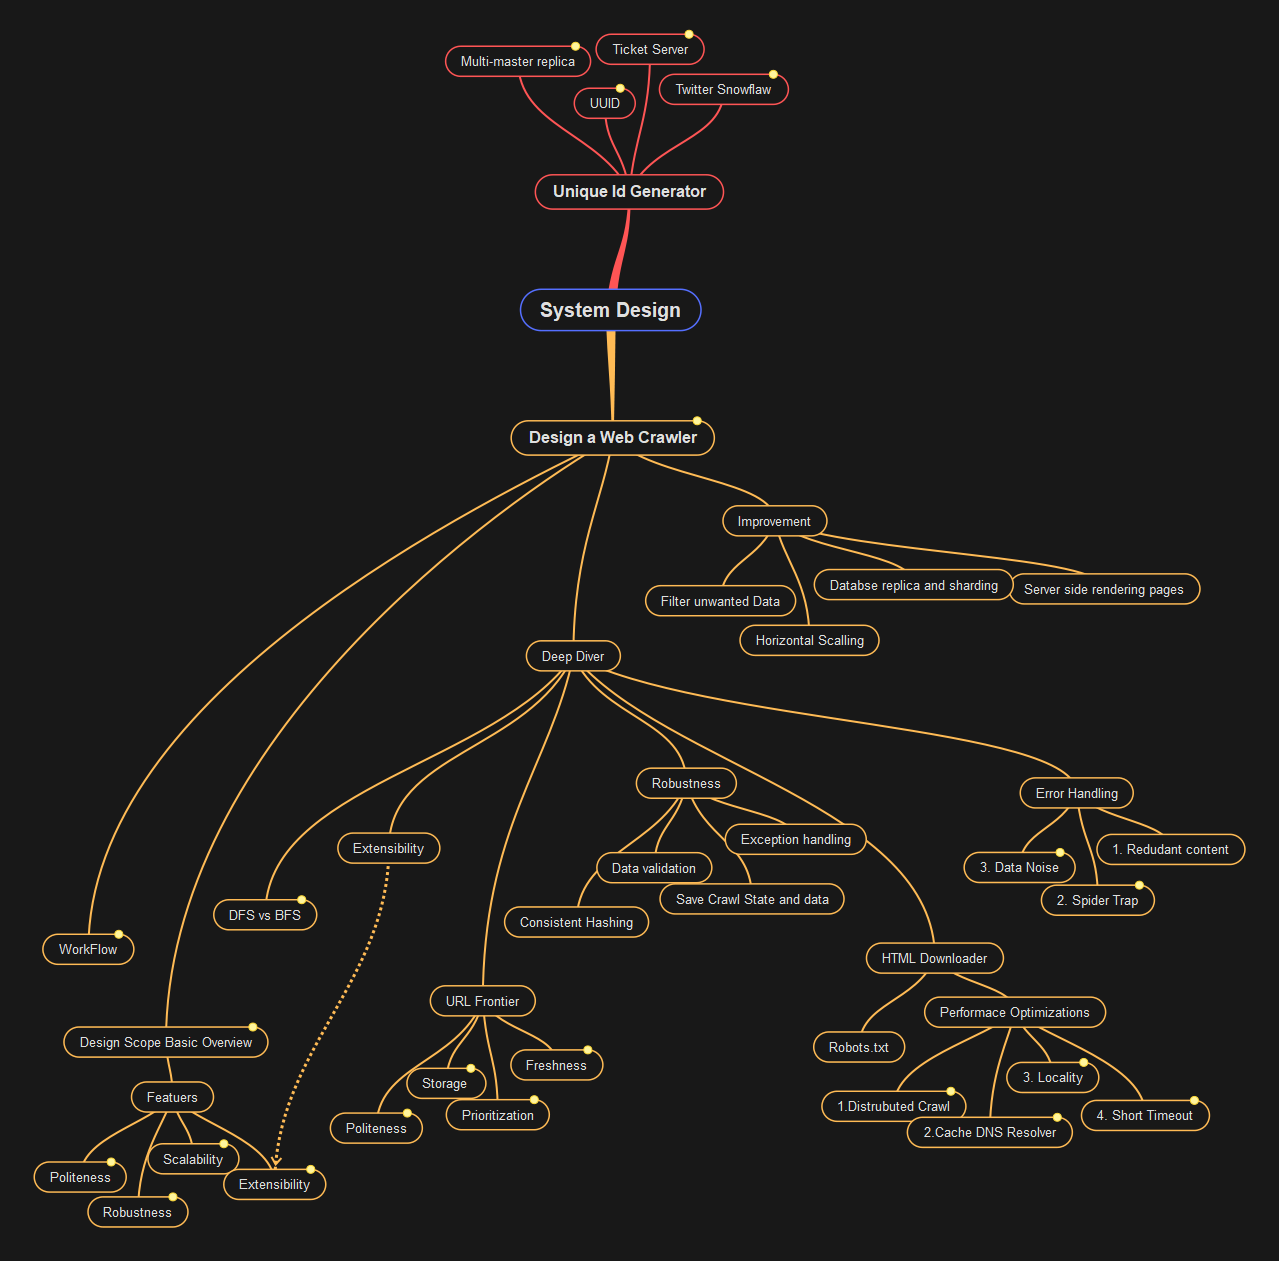
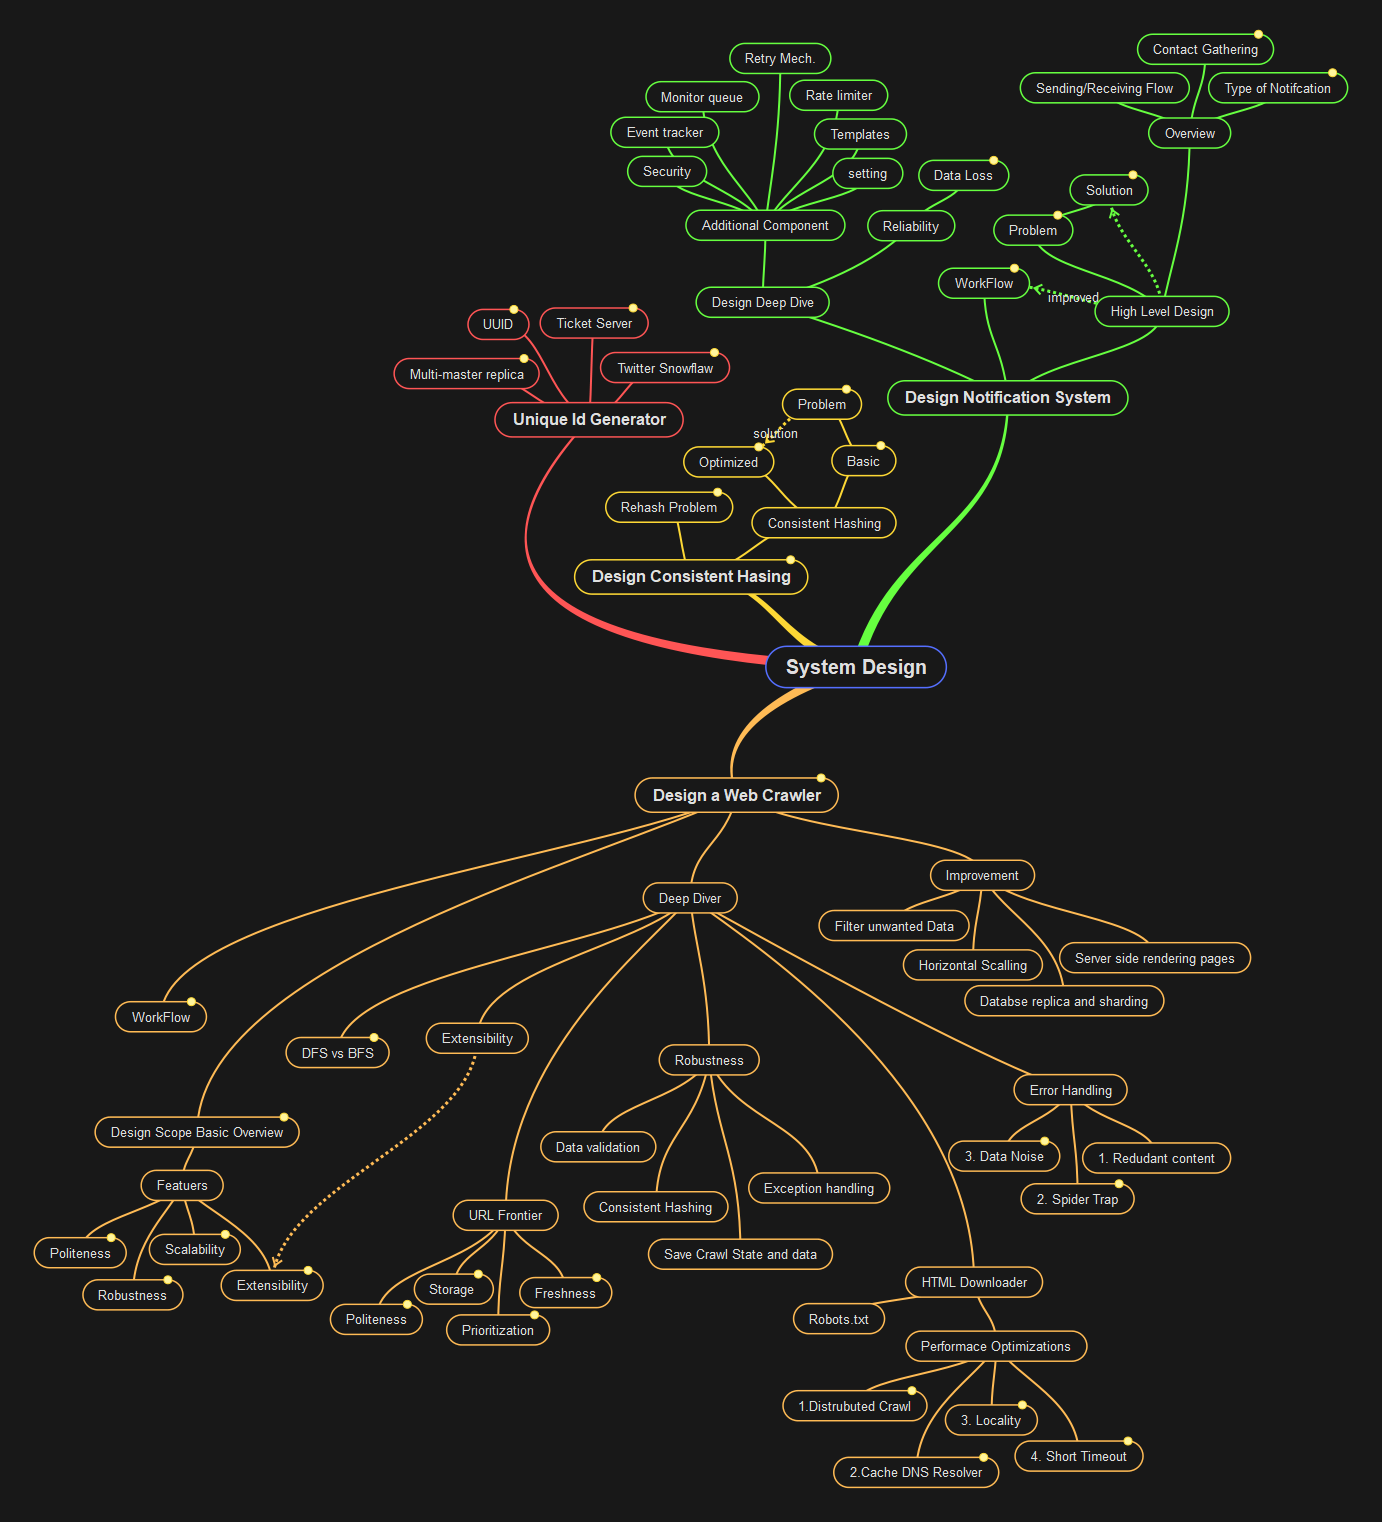
Update system design

Changed region(s): [[0.0305, 0.0, 0.9758, 0.9897], [0.2744, 0.7423, 0.3049, 0.7732], [0.183, 0.5876, 0.2134, 0.6186]]

diff --git a/Frontend/src/constant/system_design.js b/Frontend/src/constant/system_design.js
@@ -59,9 +59,53 @@ export const notesData = {
     "title": "\nNote - 3. Data Noise\n",
     "body": "\n\n<title>\nNote - 3. Data Noise\n</title>\n<link rel=\"shortcut icon\" type=\"image/png\" href=\"../favicon.png\">\n\n\n<h2>\n3. Data Noise\n</h2>\n<hr>\n<p>\nData Noise\n<br>\n\n<br>\nSome content and Url is not usefull\n<br>\nsuch as ADS, code snippet , spam url etc\n</p>\n\n\n"
   },
+  "note_23": {
+    "title": "\nNote - Design Consistent Hasing\n",
+    "body": "\n\n<title>\nNote - Design Consistent Hasing\n</title>\n<link rel=\"shortcut icon\" type=\"image/png\" href=\"../favicon.png\">\n\n\n<h2>\nDesign Consistent Hasing\n</h2>\n<hr>\n<p>\nConsistent hashing\n<br>\n\n<br>\nIn horizontal scaling there are number of servers how will you define on which server the user request will go.\n</p>\n\n\n"
+  },
+  "note_24": {
+    "title": "\nNote - Rehash Problem\n",
+    "body": "\n\n<title>\nNote - Rehash Problem\n</title>\n<link rel=\"shortcut icon\" type=\"image/png\" href=\"../favicon.png\">\n\n\n<h2>\nRehash Problem\n</h2>\n<hr>\n<p>\nRehash Problem\n<br>\n\n<br>\n create a function which id%n = server number.\n<br>\n\n<br>\ngood for fixed number of server\n<br>\n\n<br>\nThe problem arise\n<br>\n1. Adding and removing server the function change server for the user request\n</p>\n\n\n"
+  },
+  "note_25": {
+    "title": "\nNote - Basic\n",
+    "body": "\n\n<title>\nNote - Basic\n</title>\n<link rel=\"shortcut icon\" type=\"image/png\" href=\"../favicon.png\">\n\n\n<h2>\nBasic\n</h2>\n<hr>\n<p>\nBasic Consistent Hashing\n<br>\n\n<br>\n10 thousand feet view\n<br>\nCreate a array and join it's end make it like cycle\n<br>\n\n<br>\nNow create function that give position to put server on array\n<br>\n\n<br>\nand other function for user to map on server\n<br>\n\n<br>\nnow every user request goes to the clockwise first server it found\n</p>\n\n\n"
+  },
+  "note_26": {
+    "title": "\nNote - Problem\n",
+    "body": "\n\n<title>\nNote - Problem\n</title>\n<link rel=\"shortcut icon\" type=\"image/png\" href=\"../favicon.png\">\n\n\n<h2>\nProblem\n</h2>\n<hr>\n<p>\nProblem\n<br>\n\n<br>\n1. The Gap between adjacent server might be greater which create inconsistency of distribution of the request to server. One server might getting greater number of request\n<br>\n\n<br>\n2.The Number of user might concentrated on particular window of the array.\n</p>\n\n\n"
+  },
+  "note_27": {
+    "title": "\nNote - Optimized\n",
+    "body": "\n\n<title>\nNote - Optimized\n</title>\n<link rel=\"shortcut icon\" type=\"image/png\" href=\"../favicon.png\">\n\n\n<h2>\nOptimized\n</h2>\n<hr>\n<p>\nOptimized Consistent Hashing\n<br>\n\n<br>\nCreate a virtual nodes put on different placer using server function position generator(something like that)\n<br>\nNow you problem is solved :)\n</p>\n\n\n"
+  },
+  "note_28": {
+    "title": "\nNote - Type of Notifcation\n",
+    "body": "\n\n<title>\nNote - Type of Notifcation\n</title>\n<link rel=\"shortcut icon\" type=\"image/png\" href=\"../favicon.png\">\n\n\n<h2>\nType of Notifcation\n</h2>\n<hr>\n<p>\nType of Notification\n<br>\n\n<br>\n1. FCM for android \n<br>\n2. APN for Apple (apple push notification)\n<br>\n3. Twillo and Neximo etc\n<br>\n4. Email Service\n</p>\n\n\n"
+  },
+  "note_29": {
+    "title": "\nNote - Contact Gathering\n",
+    "body": "\n\n<title>\nNote - Contact Gathering\n</title>\n<link rel=\"shortcut icon\" type=\"image/png\" href=\"../favicon.png\">\n\n\n<h2>\nContact Gathering\n</h2>\n<hr>\n<p>\nContact Gathering\n<br>\n\n<br>\nWhen User login/sign in system it get device token that will be store in the database. which will require by these 3rd party service to push the notification on the device\n</p>\n\n\n"
+  },
   "note_3": {
     "title": "\nNote - Ticket Server\n",
     "body": "\n\n<title>\nNote - Ticket Server\n</title>\n<link rel=\"shortcut icon\" type=\"image/png\" href=\"../favicon.png\">\n\n\n<h2>\nTicket Server\n</h2>\n<hr>\n<p>\nDefinition\n<br>\nOnly one server is responsible to generate the id for the other servers\n<br>\n\n<br>\n\n<br>\nPros:\n<br>\n-easy to implement\n<br>\n\n<br>\nCons:\n<br>\n-single point of failure and when another server we take for backup new problem arise data synchronization\n</p>\n\n\n"
+  },
+  "note_30": {
+    "title": "\nNote - Problem\n",
+    "body": "\n\n<title>\nNote - Problem\n</title>\n<link rel=\"shortcut icon\" type=\"image/png\" href=\"../favicon.png\">\n\n\n<h2>\nProblem\n</h2>\n<hr>\n<p>\nProblem\n<br>\n\n<br>\n1. Single point of failure (spof)\n<br>\n2. Some 3rd party service are not available in different location\n<br>\n3.Performance bottleneck Over load\n<br>\n4. Hard to Scale\n</p>\n\n\n"
+  },
+  "note_31": {
+    "title": "\nNote - Solution\n",
+    "body": "\n\n<title>\nNote - Solution\n</title>\n<link rel=\"shortcut icon\" type=\"image/png\" href=\"../favicon.png\">\n\n\n<h2>\nSolution\n</h2>\n<hr>\n<p>\nSolution\n<br>\n\n<br>\nImprovement\n<br>\n\n<br>\n1. Add cache while getting data for notification from storage/db\n<br>\n2. User multiple server for notification sending\n<br>\n3. User queue for sending notification to 3rd party services\n</p>\n\n\n"
+  },
+  "note_32": {
+    "title": "\nNote - WorkFlow\n",
+    "body": "\n\n<title>\nNote - WorkFlow\n</title>\n<link rel=\"shortcut icon\" type=\"image/png\" href=\"../favicon.png\">\n\n\n<h2>\nWorkFlow\n</h2>\n<hr>\n<p>\nWorkFlow\n<br>\n\n<br>\n1. Server trigger the notification\n<br>\n2. Notification server get the data from the cache\n<br>\n3.Cache send data if have or retrieve from DB\n<br>\n4. Notification DB store the user details like device token, setting and other details\n<br>\n5.Messaging queue All notification go into the queue for assign service android,ios,email,sms;\n<br>\n6.Worker take the notification from the queue and send it to 3rd party service for push notification\n<br>\n7.3rd party service Explain in Type of notification\n<br>\n8.Device get the notification\n</p>\n\n\n"
+  },
+  "note_33": {
+    "title": "\nNote - Data Loss\n",
+    "body": "\n\n<title>\nNote - Data Loss\n</title>\n<link rel=\"shortcut icon\" type=\"image/png\" href=\"../favicon.png\">\n\n\n<h2>\nData Loss\n</h2>\n<hr>\n<p>\nData Loss\n<br>\n\n<br>\nPrevent data loss\n<br>\n\n<br>\nWorker is taking message from the queue and send it to the 3rd party\n<br>\nit should also check for failure if notification is not send it maintain the DB where log of notification present when a notification is failed it retry again check.\n<br>\nSend only one notification\n<br>\nCheck for the id. Same a like visited array to check if visited or not\n</p>\n\n\n"
   },
   "note_4": {
     "title": "\nNote - Twitter Snowflaw\n",
@@ -87,30 +131,139 @@ export const notesData = {
     "title": "\nNote - Politeness\n",
     "body": "\n\n<title>\nNote - Politeness\n</title>\n<link rel=\"shortcut icon\" type=\"image/png\" href=\"../favicon.png\">\n\n\n<h2>\nPoliteness\n</h2>\n<hr>\n<p>\nPoliteness\n<br>\n\n<br>\nWeb crawler can create 10000/sec request so it must be maintain interval so the web can't detect it's a bot or not fill the server with web crawler request\n</p>\n\n\n"
   }
-};
+}
 
-export const coordsData = [
-  { coords: '568,38,584,54', noteKey: 'note_1' },
-  { coords: '612,80,628,96', noteKey: 'note_2' },
-  { coords: '681,26,697,42', noteKey: 'note_3' },
-  { coords: '765,66,781,82', noteKey: 'note_4' },
-  { coords: '689,413,705,429', noteKey: 'note_5' },
-  { coords: '245,1019,261,1035', noteKey: 'note_6' },
-  { coords: '216,1136,232,1152', noteKey: 'note_7' },
-  { coords: '165,1189,181,1205', noteKey: 'note_8' },
-  { coords: '103,1154,119,1170', noteKey: 'note_9' },
-  { coords: '303,1161,319,1177', noteKey: 'note_10' },
-  { coords: '111,926,127,942', noteKey: 'note_11' },
-  { coords: '399,1105,415,1121', noteKey: 'note_12' },
-  { coords: '526,1092,542,1108', noteKey: 'note_13' },
-  { coords: '580,1042,596,1058', noteKey: 'note_14' },
-  { coords: '463,1060,479,1076', noteKey: 'note_15' },
-  { coords: '294,892,310,908', noteKey: 'note_16' },
-  { coords: '943,1083,959,1099', noteKey: 'note_17' },
-  { coords: '1049,1109,1065,1125', noteKey: 'note_18' },
-  { coords: '1076,1054,1092,1070', noteKey: 'note_19' },
-  { coords: '1186,1092,1202,1108', noteKey: 'note_20' },
-  { coords: '1131,877,1147,893', noteKey: 'note_21' },
-  { coords: '1052,844,1068,860', noteKey: 'note_22' }
-];
-
+ export const coordsData = [
+  {
+    "coords": "516,351,532,367",
+    "noteKey": "note_1"
+  },
+  {
+    "coords": "506,301,522,317",
+    "noteKey": "note_2"
+  },
+  {
+    "coords": "625,300,641,316",
+    "noteKey": "note_3"
+  },
+  {
+    "coords": "706,345,722,361",
+    "noteKey": "note_4"
+  },
+  {
+    "coords": "813,770,829,786",
+    "noteKey": "note_5"
+  },
+  {
+    "coords": "276,1109,292,1125",
+    "noteKey": "note_6"
+  },
+  {
+    "coords": "217,1226,233,1242",
+    "noteKey": "note_7"
+  },
+  {
+    "coords": "160,1272,176,1288",
+    "noteKey": "note_8"
+  },
+  {
+    "coords": "103,1230,119,1246",
+    "noteKey": "note_9"
+  },
+  {
+    "coords": "300,1262,316,1278",
+    "noteKey": "note_10"
+  },
+  {
+    "coords": "183,994,199,1010",
+    "noteKey": "note_11"
+  },
+  {
+    "coords": "399,1296,415,1312",
+    "noteKey": "note_12"
+  },
+  {
+    "coords": "527,1307,543,1323",
+    "noteKey": "note_13"
+  },
+  {
+    "coords": "589,1270,605,1286",
+    "noteKey": "note_14"
+  },
+  {
+    "coords": "470,1266,486,1282",
+    "noteKey": "note_15"
+  },
+  {
+    "coords": "366,1030,382,1046",
+    "noteKey": "note_16"
+  },
+  {
+    "coords": "904,1383,920,1399",
+    "noteKey": "note_17"
+  },
+  {
+    "coords": "976,1449,992,1465",
+    "noteKey": "note_18"
+  },
+  {
+    "coords": "1014,1397,1030,1413",
+    "noteKey": "note_19"
+  },
+  {
+    "coords": "1120,1433,1136,1449",
+    "noteKey": "note_20"
+  },
+  {
+    "coords": "1111,1176,1127,1192",
+    "noteKey": "note_21"
+  },
+  {
+    "coords": "1037,1133,1053,1149",
+    "noteKey": "note_22"
+  },
+  {
+    "coords": "783,552,799,568",
+    "noteKey": "note_23"
+  },
+  {
+    "coords": "710,484,726,500",
+    "noteKey": "note_24"
+  },
+  {
+    "coords": "873,438,889,454",
+    "noteKey": "note_25"
+  },
+  {
+    "coords": "838,381,854,397",
+    "noteKey": "note_26"
+  },
+  {
+    "coords": "751,439,767,455",
+    "noteKey": "note_27"
+  },
+  {
+    "coords": "1325,65,1341,81",
+    "noteKey": "note_28"
+  },
+  {
+    "coords": "1251,26,1267,42",
+    "noteKey": "note_29"
+  },
+  {
+    "coords": "1050,207,1066,223",
+    "noteKey": "note_30"
+  },
+  {
+    "coords": "1125,167,1141,183",
+    "noteKey": "note_31"
+  },
+  {
+    "coords": "1006,260,1022,276",
+    "noteKey": "note_32"
+  },
+  {
+    "coords": "986,152,1002,168",
+    "noteKey": "note_33"
+  }
+]
